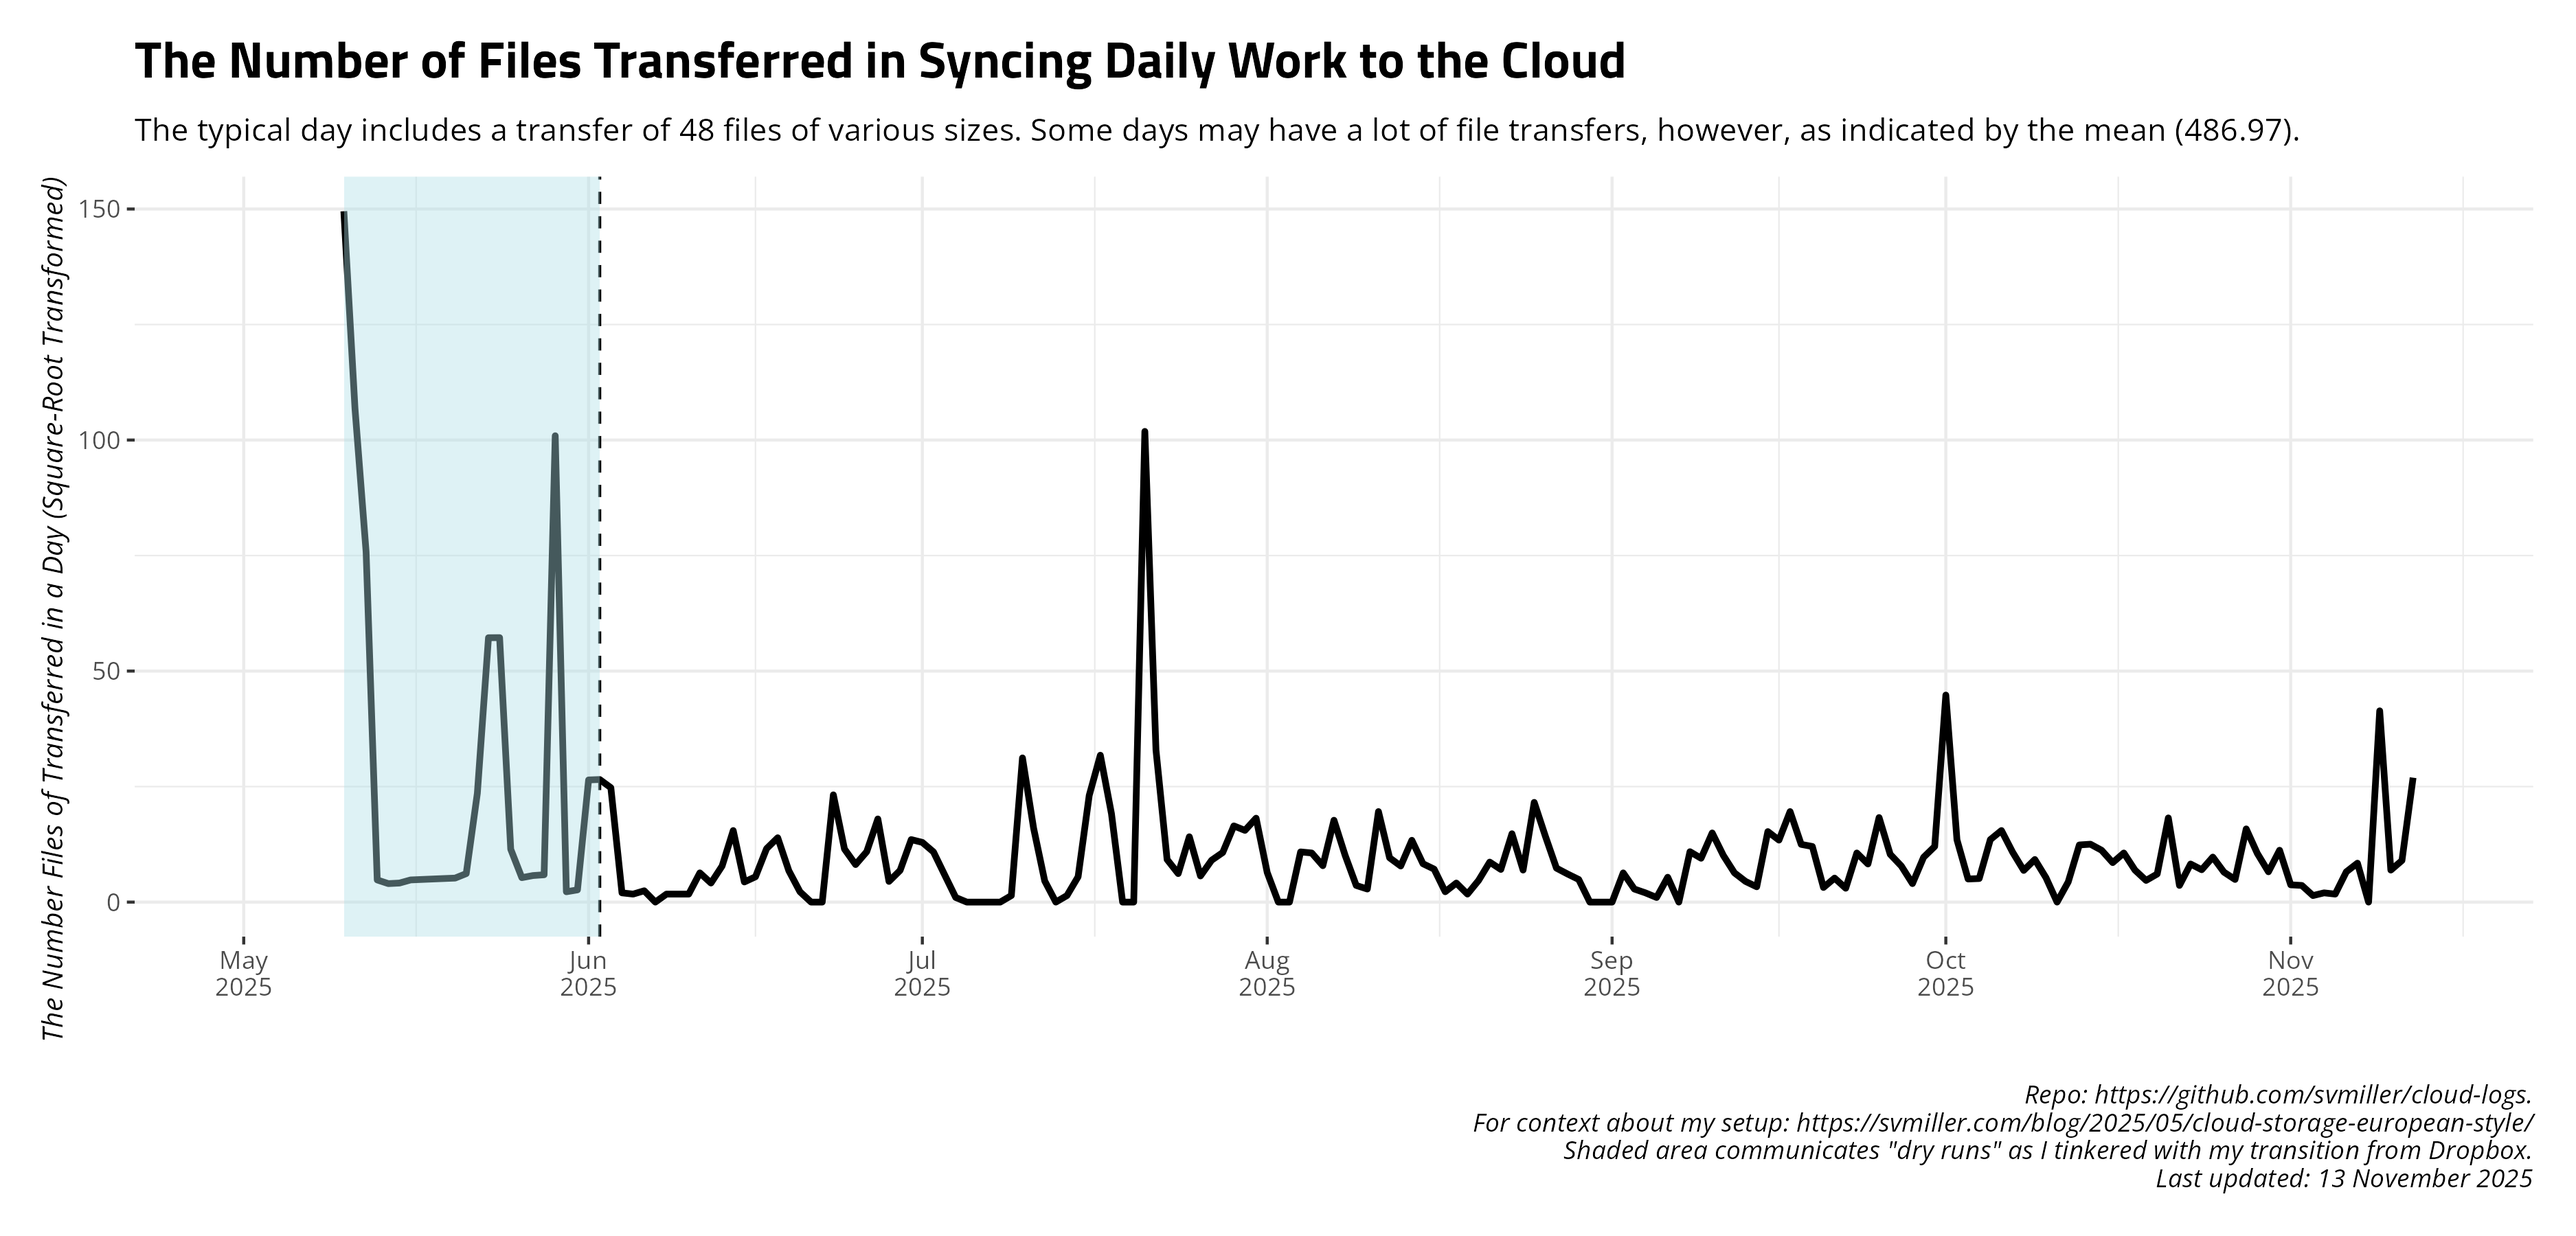
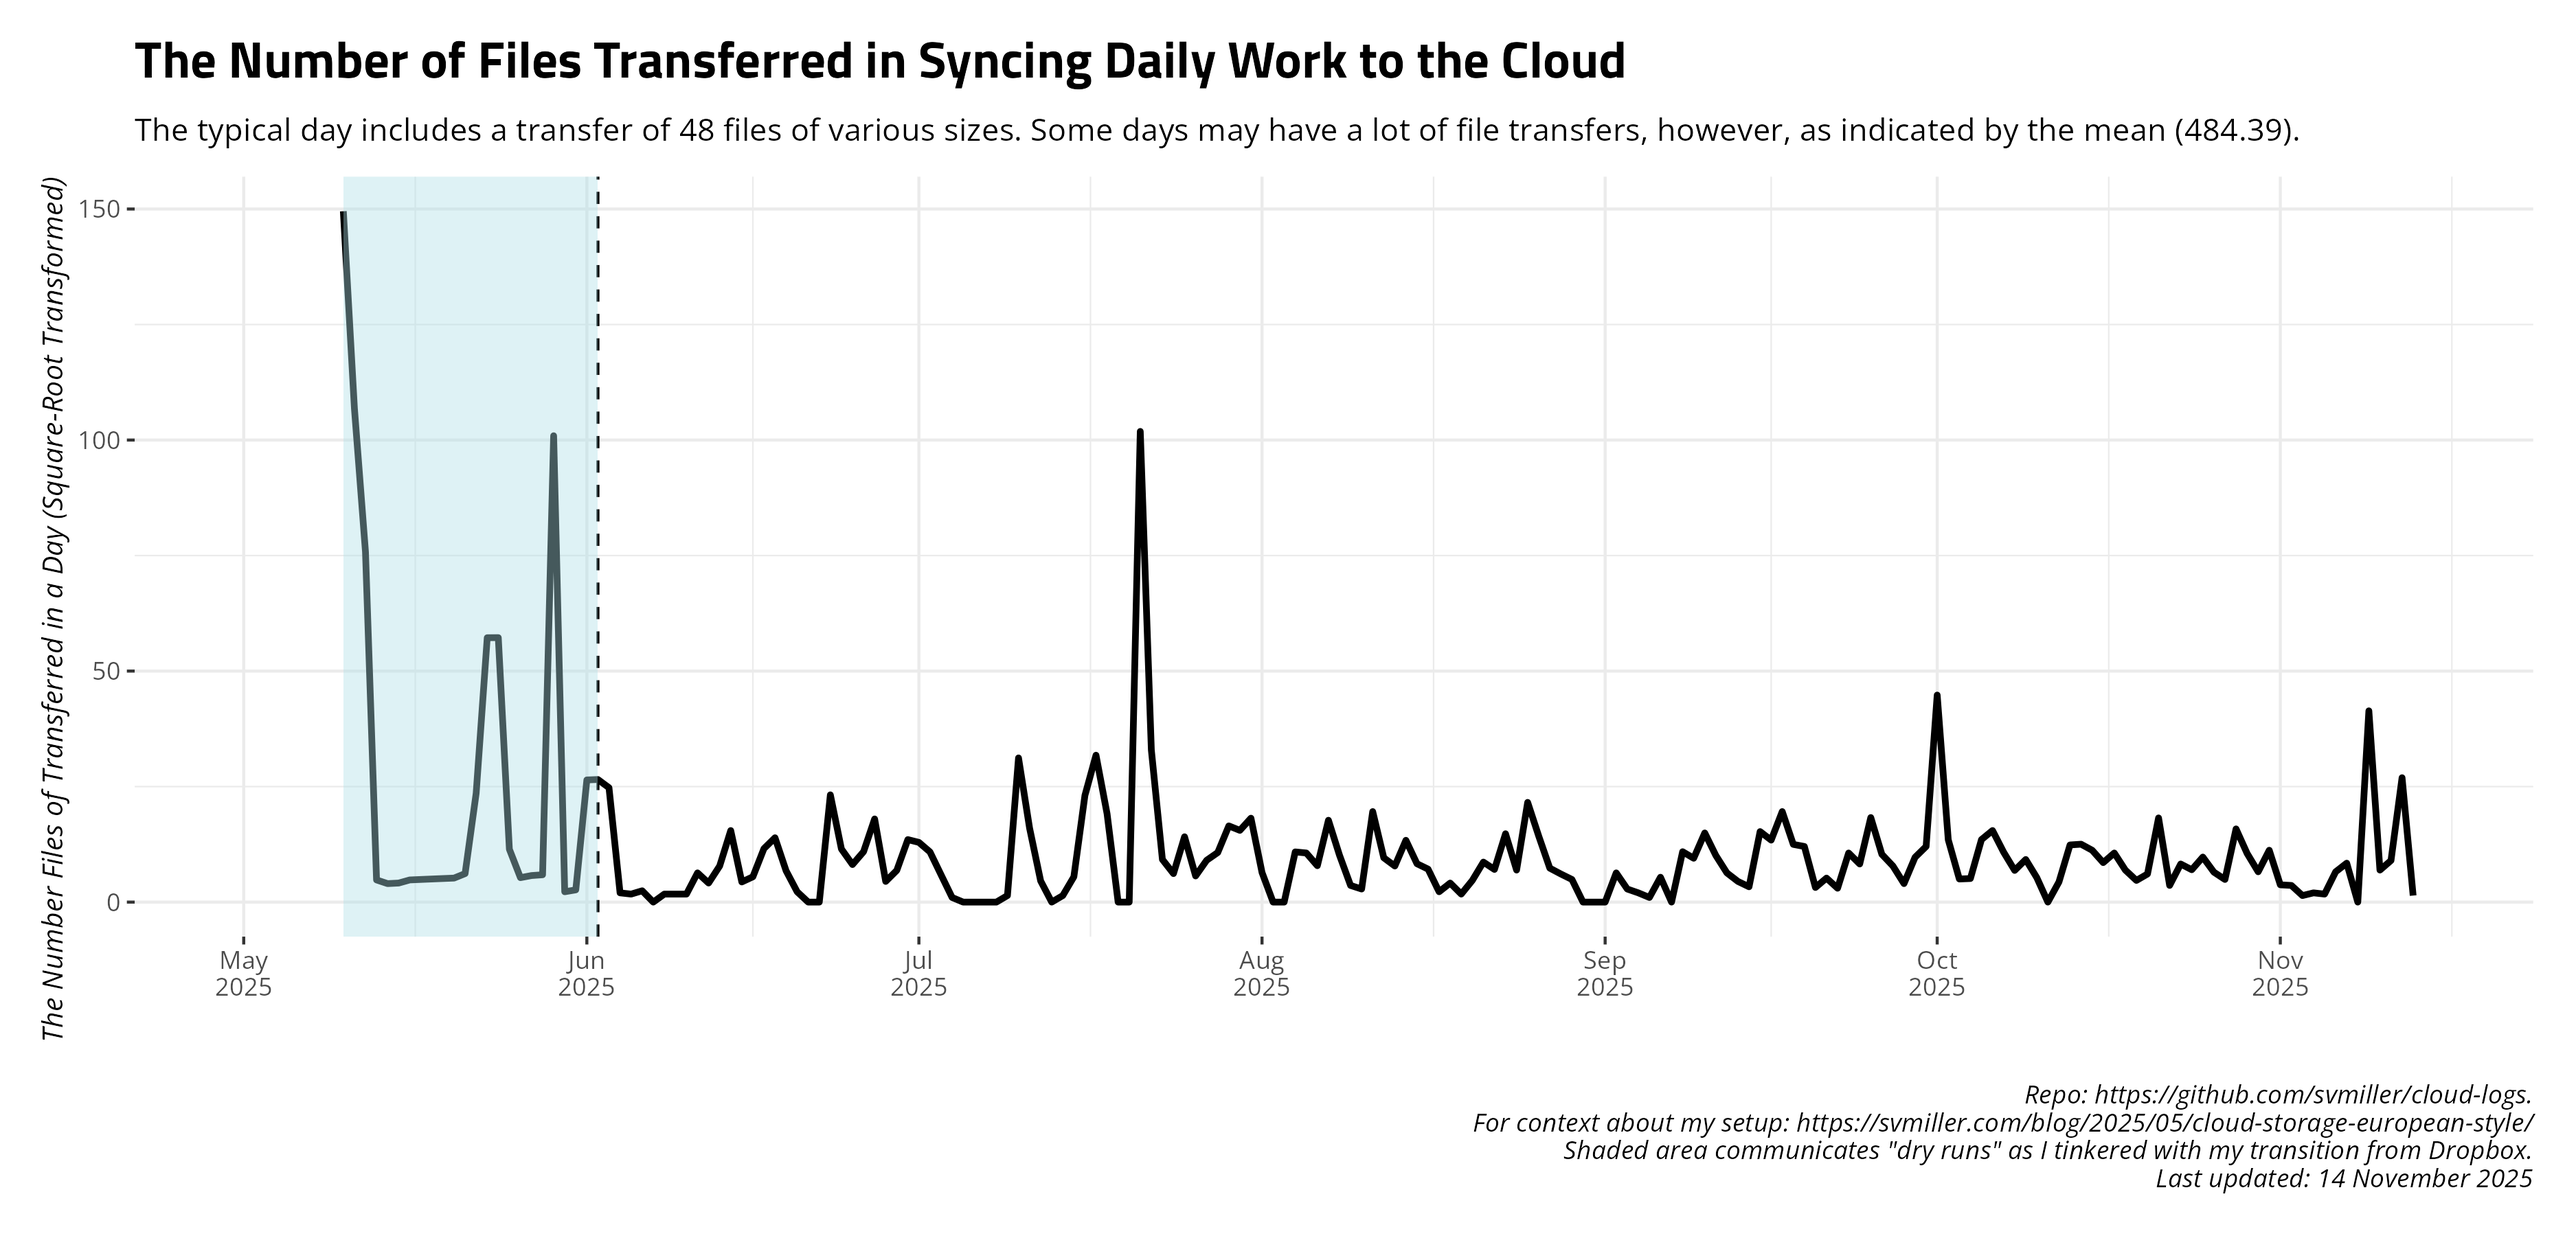
Date: 2025-11-14 09:00:16. Hi mom!

diff --git a/README.md b/README.md
@@ -27,17 +27,17 @@ and uploads to Github.
     #> # A tibble: 14 × 4
     #>    date       ftransfer stransfer   elapsed
     #>    <date>         <dbl> <chr>       <chr>  
-    #>  1 2025-10-30        43 515.287 KiB 4m33.3s
-    #>  2 2025-10-31       126 3.302 MiB   4m16.2s
-    #>  3 2025-11-01        14 30.743 KiB  4m51.2s
-    #>  4 2025-11-02        13 58.646 KiB  4m46.9s
-    #>  5 2025-11-03         2 7.941 KiB   4m58.0s
-    #>  6 2025-11-04         4 5.939 MiB   4m54.7s
-    #>  7 2025-11-05         3 17.768 MiB  4m38.5s
-    #>  8 2025-11-06        43 444.626 MiB 4m49.4s
-    #>  9 2025-11-07        71 8.049 MiB   5m11.1s
-    #> 10 2025-11-08         0 <NA>        4m52.9s
-    #> 11 2025-11-09      1714 143.133 MiB 5m4.7s 
-    #> 12 2025-11-10        48 1.490 MiB   4m52.7s
-    #> 13 2025-11-11        81 1.673 MiB   5m1.9s 
-    #> 14 2025-11-12       725 18.854 MiB  5m33.3s
+    #>  1 2025-10-31       126 3.302 MiB   4m16.2s
+    #>  2 2025-11-01        14 30.743 KiB  4m51.2s
+    #>  3 2025-11-02        13 58.646 KiB  4m46.9s
+    #>  4 2025-11-03         2 7.941 KiB   4m58.0s
+    #>  5 2025-11-04         4 5.939 MiB   4m54.7s
+    #>  6 2025-11-05         3 17.768 MiB  4m38.5s
+    #>  7 2025-11-06        43 444.626 MiB 4m49.4s
+    #>  8 2025-11-07        71 8.049 MiB   5m11.1s
+    #>  9 2025-11-08         0 <NA>        4m52.9s
+    #> 10 2025-11-09      1714 143.133 MiB 5m4.7s 
+    #> 11 2025-11-10        48 1.490 MiB   4m52.7s
+    #> 12 2025-11-11        81 1.673 MiB   5m1.9s 
+    #> 13 2025-11-12       725 18.854 MiB  5m33.3s
+    #> 14 2025-11-13         2 1.737 MiB   7m23.6s
